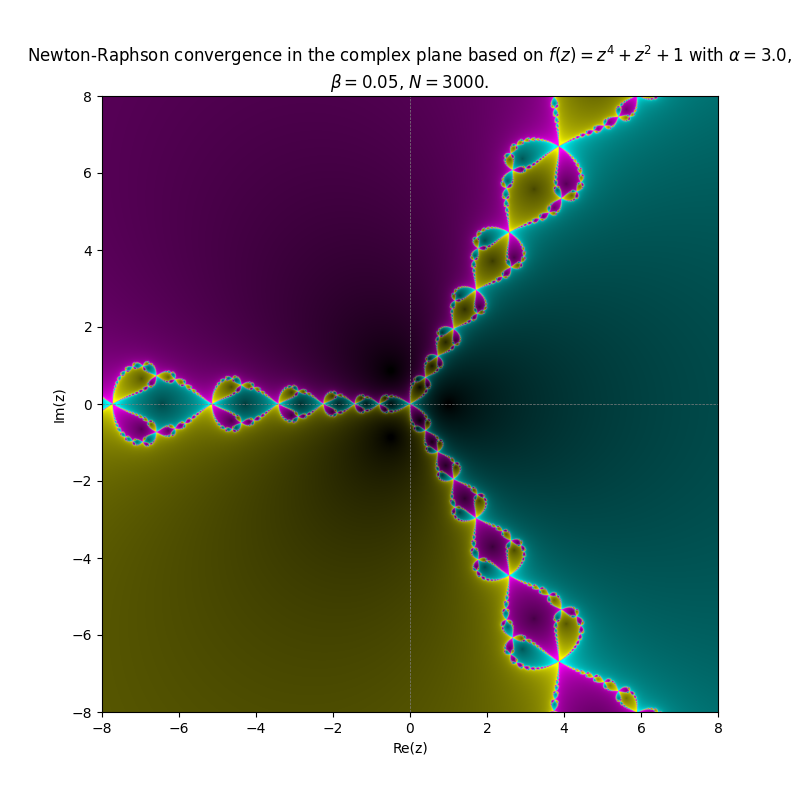
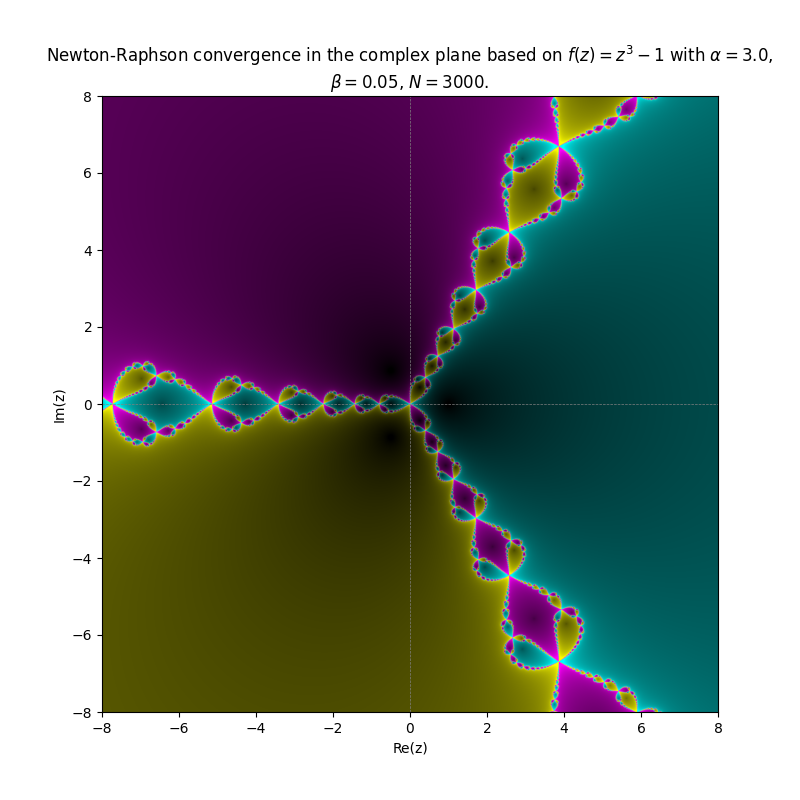
feat: Update kernel to be dynamic.

Changed region(s): [[0.0312, 0.0625, 1.0, 0.0938]]

diff --git a/src/newcomplexnewton.py b/src/newcomplexnewton.py
@@ -1,3 +1,4 @@
+from typing import Any
 import numpy as np
 import matplotlib.pyplot as plt
 import matplotlib.colors as mcolors
@@ -6,19 +7,10 @@ from numba import cuda
 import math
 import time
 import cmath
+from sympy import symbols, Derivative, sympify
 
-uf = "((z**(3))-(1))"
-udf = "3*z**2"
-
-funcf = f"def f(z):\n return {uf}"
-funcdf = f"def df(z):\n return {udf}"
-
-namespace = {"cmath": cmath}
-exec(funcf, namespace)
-exec(funcdf, namespace)
-
-ff = namespace["f"]
-fdf = namespace["df"]
+from .MathParser.lexer import Lexer
+from .MathParser.parser_ import Parser
 
 def kernelFactory(func, dfunc):
     f = cuda.jit(device=True)(func)
@@ -66,7 +58,20 @@ def kernelFactory(func, dfunc):
     return kernel
 
 class ComplexNewton():
-    def __init__(self, xMin:int=-8, xMax:int=8, yMin:int=-8, yMax:int=8, numPointsPerAxis:int=3000, convergenceDelta:float=1e-6, maxIterations:int=100, alpha:float=3.0, beta:float=0.05, maxColorOptions:int=20) -> None:
+    specialNamespace = {"cmath": cmath}
+
+    def __init__(self, xMin : int=-8, 
+                        xMax : int=8, 
+                        yMin : int=-8, 
+                        yMax : int=8, 
+                        numPointsPerAxis : int=3000, 
+                        convergenceDelta : float=1e-6,
+                        maxIterations : int=100, 
+                        alpha : float=3.0, 
+                        beta : float=0.05, 
+                        maxColorOptions : int=20,
+                        filename : str = Any) -> None:
+
         self.xMin  = xMin
         self.xMax = xMax
         self.yMin = yMin
@@ -77,9 +82,57 @@ class ComplexNewton():
         self.alpha = alpha 
         self.beta = beta
         self.maxColorOptions = maxColorOptions
+        self.function = None
+        self.dfunction = None
+        self.strFunction = ""
     
+    def setFunctions(self, uf : str) -> bool:
+        """
+        Attempts to set the function and its derivative.
+
+        Parameters
+        -----
+        uf : str
+            The user defined complex function w.r.t the complex variable ``z``. For example: `z^3-1`
+        udf : str
+            The user defined derivative function w.r.t the complex variable ``z``. For example: `3*z^2`
+
+        Returns
+        -----
+        success : bool
+            Whether or not the operation was successful
+        """
+        try:
+            if (len(uf) == 0):
+                raise Exception()
+
+            ufTokens = Lexer(uf).generateTokens()
+            ufSanitized = str(Parser(ufTokens).parse())
+
+            self.strFunction = uf
+        except Exception:
+            return False
+
+        exec(f"def f(z):\n return {ufSanitized}", self.specialNamespace)
+
+        z = symbols('z')
+        exec(f"def df(z):\n return {str(Derivative(sympify(ufSanitized), z).doit())}", self.specialNamespace)
+
+        self.strFunction = uf
+        self.function = self.specialNamespace["f"]
+        self.dfunction = self.specialNamespace["df"]
+
+        return True
 
     def run(self) -> float:
+        """
+        Run the Newton Fractal Generator with the given parameters.
+
+        Returns
+        -----
+        runtime : float
+            The runtime in seconds.
+        """
         startMilli = int(time.time()*1000)
 
         RRoots = np.zeros((self.numPointsPerAxis, self.numPointsPerAxis), dtype=np.float64)
@@ -95,7 +148,7 @@ class ComplexNewton():
         blocksY = int(np.ceil(self.numPointsPerAxis / threadsPerBlock[1]))
         grid = (blocksX, blocksY)
 
-        kernel = kernelFactory(ff, fdf)
+        kernel = kernelFactory(self.function, self.dfunction)
 
         kernel[grid, threadsPerBlock](DRRoots, DIRoots, DBrightness, self.xMin, self.xMax, self.yMin, self.yMax, self.maxIterations, self.convergenceDelta, self.alpha, self.beta)
         cuda.synchronize()
@@ -123,7 +176,7 @@ class ComplexNewton():
         ax.axvline(0, color="gray", linewidth=0.5, linestyle="--")
         ax.set_xlabel("Re(z)")
         ax.set_ylabel('Im(z)')
-        ax.set_title(f"Newton-Raphson convergence in the complex plane based on $f(z)=z^4+z^2+1$ with $\\alpha={self.alpha}$,\n$\\beta={self.beta}$, $N={self.numPointsPerAxis}$.")
+        ax.set_title(f"Newton-Raphson convergence in the complex plane based on $f(z)={self.strFunction}$ with $\\alpha={self.alpha}$,\n$\\beta={self.beta}$, $N={self.numPointsPerAxis}$.")
         ax.set_aspect("equal", adjustable="box")
 
         plt.savefig("GPU_2.png")
@@ -133,5 +186,6 @@ class ComplexNewton():
 
 if __name__ == "__main__":
     cn = ComplexNewton()
+    cn.setFunctions("z^4-1")
     runtime = cn.run()
     print(runtime)

diff --git a/src/MathParser/parser_.py b/src/MathParser/parser_.py
@@ -33,7 +33,6 @@ class Parser:
             if self.currentToken.type == TokenType.PLUS:
                 self.advance()
                 result = AddNode(result, self.term())
-
             elif self.currentToken.type == TokenType.MINUS:
                 self.advance()
                 result = SubtractNode(result, self.term())
@@ -41,18 +40,24 @@ class Parser:
         return result
 
     def term(self):
-        result = self.factor()
+        result = self.exponent()
 
-        while self.currentToken != None and self.currentToken.type in (TokenType.MULTIPLY, TokenType.DIVIDE, TokenType.EXP):
+        while self.currentToken != None and self.currentToken.type in (TokenType.MULTIPLY, TokenType.DIVIDE):
             if self.currentToken.type == TokenType.MULTIPLY:
                 self.advance()
-                result = MultiplyNode(result, self.factor())
+                result = MultiplyNode(result, self.exponent())
             elif self.currentToken.type == TokenType.DIVIDE:
                 self.advance()
-                result = DivideNode(result, self.factor())
-            elif self.currentToken.type == TokenType.EXP:
-                self.advance()
-                result = ExpNode(result, self.factor())
+                result = DivideNode(result, self.exponent())
+
+        return result
+
+    def exponent(self):
+        result = self.factor()
+
+        if self.currentToken != None and self.currentToken.type == TokenType.EXP:
+            self.advance()
+            result = ExpNode(result, self.exponent()) 
 
         return result
 

diff --git a/main.py b/main.py
@@ -1,25 +1,11 @@
-# from fastapi import FastAPI
-# from src.newcomplexnewton import ComplexNewton
+from fastapi import FastAPI
+from src.newcomplexnewton import ComplexNewton
 
-# app = FastAPI()
+app = FastAPI()
 
-
-# @app.get("/")
-# async def main():
-#     cn = ComplexNewton()
-#     delta = cn.run()
-#     return {"message": "Hello world!", "runtime": delta}
-
-from src.MathParser.lexer import Lexer
-from src.MathParser.parser_ import Parser
-
-def start():
-    text = ".0"
-    lexer = Lexer(text)
-    tokens = lexer.generateTokens()
-    parser = Parser(tokens)
-    tree = parser.parse()
-    print(tree)
-
-if __name__ == "__main__":
-    start()
+@app.get("/")
+async def main():
+    cn = ComplexNewton()
+    cn.setFunctions("z^3-1")
+    delta = cn.run()
+    return {"message": "Hello world!", "runtime": delta}

diff --git a/src/MathParser/nodes.py b/src/MathParser/nodes.py
@@ -1,8 +1,6 @@
 from dataclasses import dataclass
 from typing import Any
 
-from llvmlite.ir import values
-
 @dataclass
 class NumberNode:
     value : str    
@@ -61,3 +59,10 @@ class UnaryMinus:
     node : Any
     def __repr__(self):
         return f"(-{self.node})"
+
+@dataclass
+class FunctionNode:
+    functionName : str
+    functionArgument : Any
+    def __repr__(self):
+        return f"cmath.{self.functionName}({str(self.functionArgument)})"

diff --git a/src/MathParser/tokens.py b/src/MathParser/tokens.py
@@ -1,6 +1,5 @@
 from dataclasses import dataclass
 from enum import Enum
-from typing import Any
 
 class TokenType(Enum):
     NUMBER = 0
@@ -17,6 +16,5 @@ class TokenType(Enum):
 class Token:
     type: TokenType
     value : str
-
     def __repr__(self):
         return self.type.name + (f":{self.value}" if self.value != None else "")
